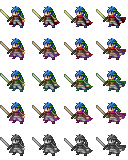
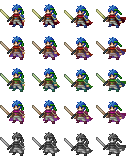
Fixed vanguard

diff --git a/splitter.py b/splitter.py
@@ -393,6 +393,10 @@ HEAD_PARAMS = {
         'offset': [(2,0),]*4,
         'size': 'small',
         },
+    'vanguard': {
+        'offset': [(1,2),(1,2),(1,1),(1,1),],
+        'size': 'large',
+        },
     'wyvern-lord': {
         'offset': [(-2,0),(-2,-2),(-2,-1),(-2,-1),],
         'size': 'small',
